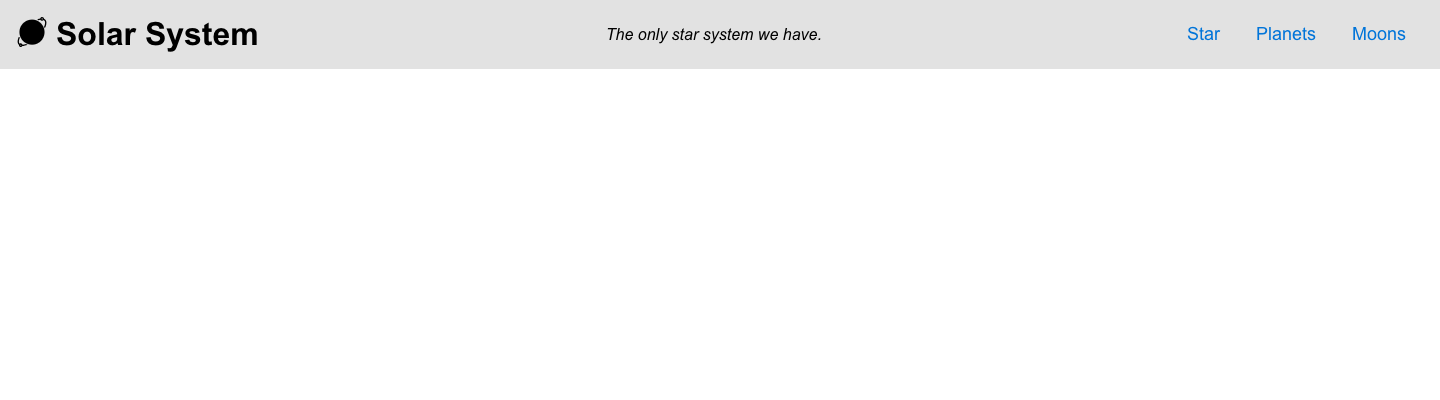
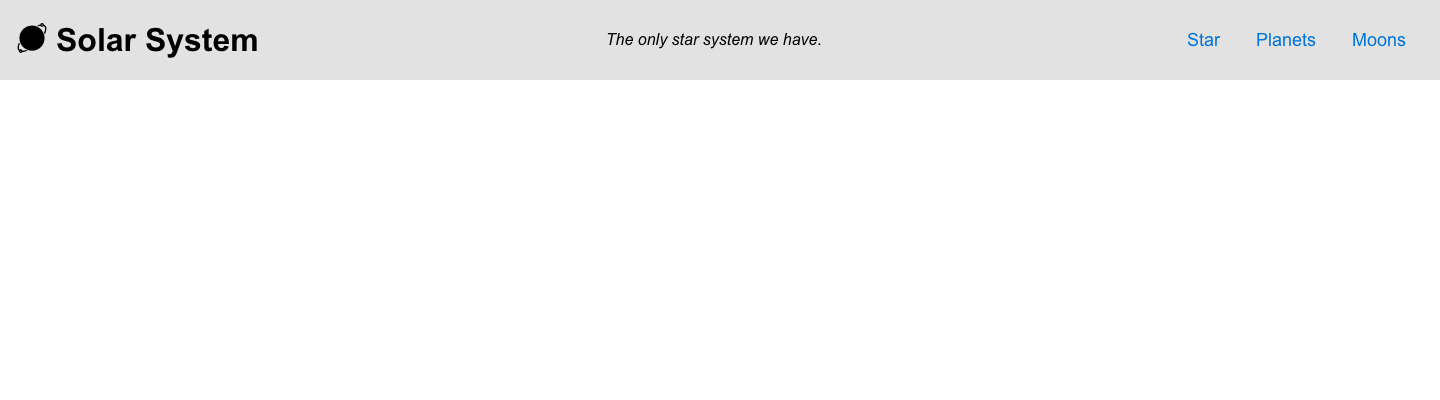
Change the incorrect course slug

diff --git a/README.md b/README.md
@@ -19,6 +19,7 @@ deliverables: '1 HTML file, 1 CSS file, images'
 
 - *Typefaces:* `sans-serif`
 - *Text sizes:* `1.125rem`
+- *Line-heights:* `1.5`
 - *Colours:* `#e2e2e2`, `#0074d9`, `#fff`
 - *Margins:* `.5rem`
 - *Paddings:* `1rem`, `.75em 1em .6em`
